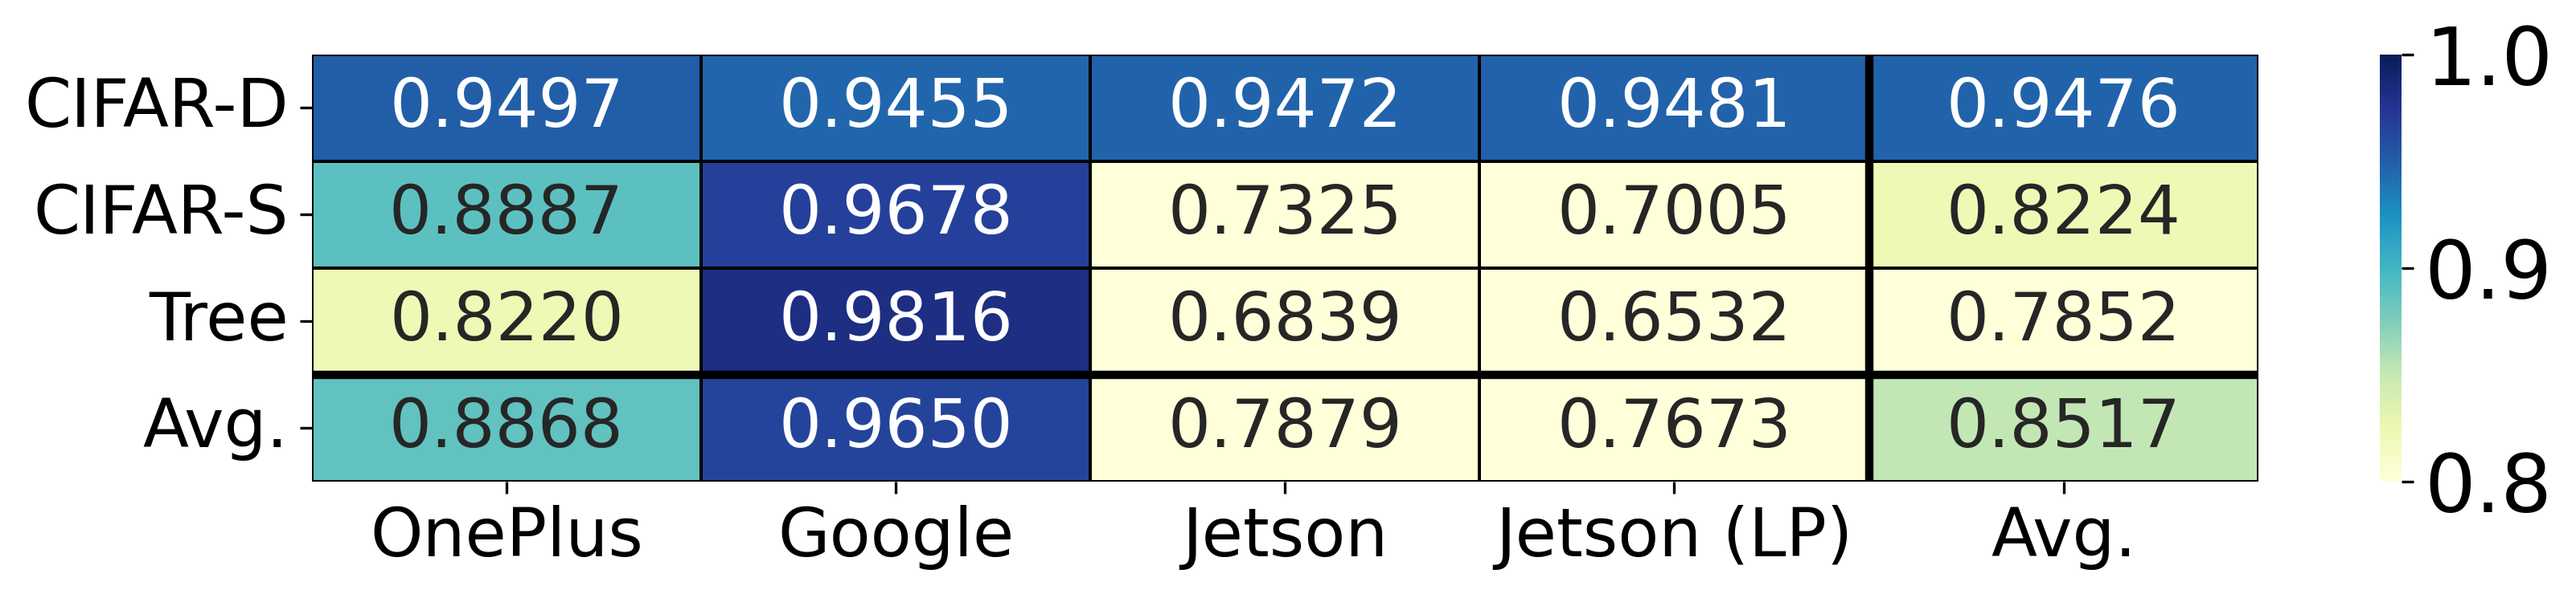
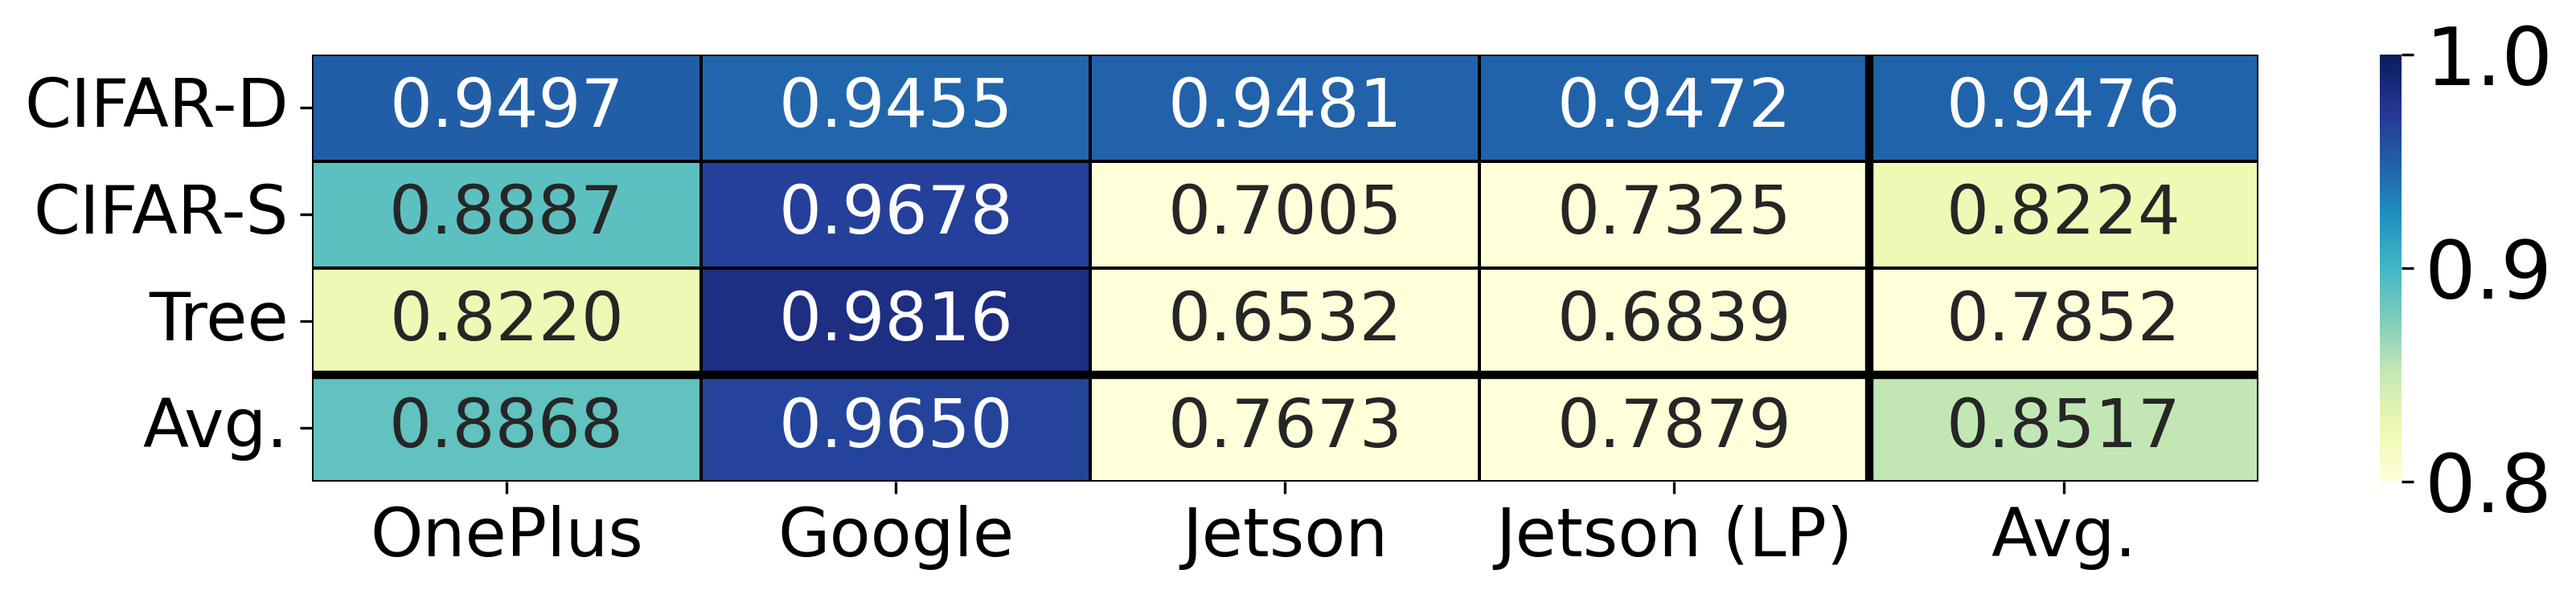
s

diff --git a/scripts/paper_figures/figure_6_b_correlation_heatmap_all_isolated.py b/scripts/paper_figures/figure_6_b_correlation_heatmap_all_isolated.py
@@ -17,8 +17,8 @@ pearson_data = np.array(
     [
         [0.9497, 0.8887, 0.8220],  # OnePlus
         [0.9455, 0.9678, 0.9816],  # Google
+        [0.9481, 0.7005, 0.6532],  # Jetson
         [0.9472, 0.7325, 0.6839],  # Jetson
-        [0.9481, 0.7005, 0.6532],  # Jetson LP
     ]
 )
 
